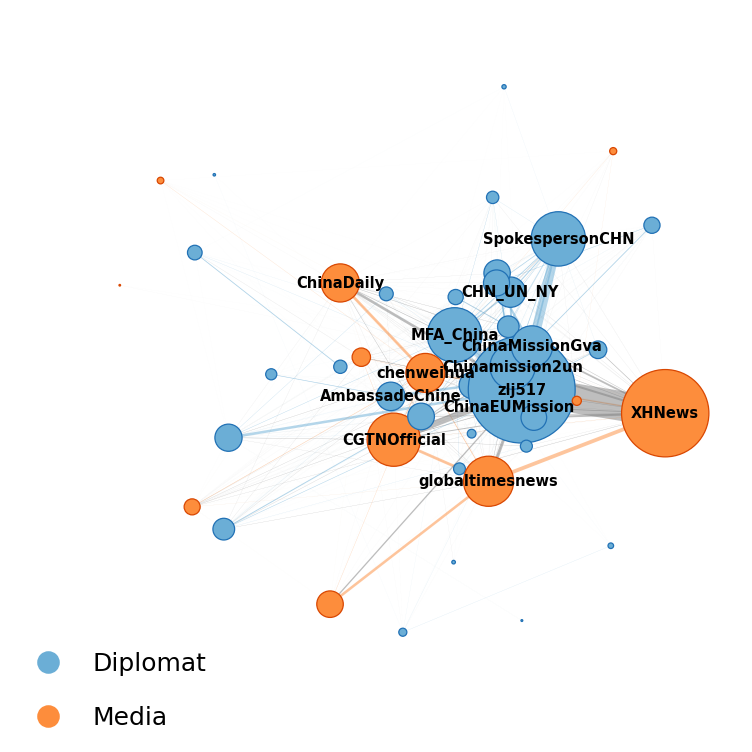
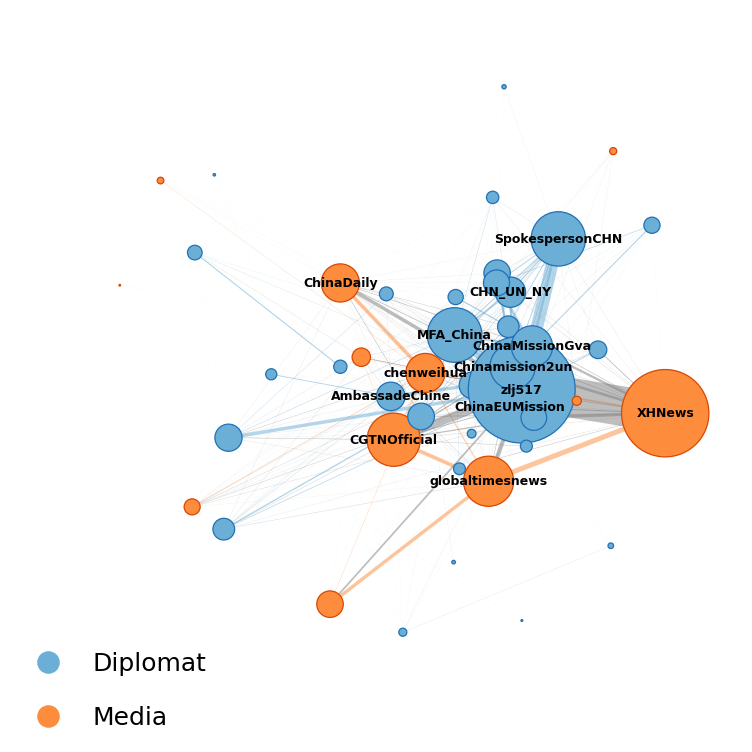
more tweaks

diff --git a/networks/src/network_main.py b/networks/src/network_main.py
@@ -123,7 +123,7 @@ def plot_network(G, color_dct, node_color, nodeedge_color, edge_color, labeldict
 
     # labels 
     label_options = {"edgecolor": "none", "facecolor": "white", "alpha": 0}
-    nx.draw_networkx_labels(G,pos,labels=labeldict,font_size=3.5, bbox=label_options, font_weight = 'bold')
+    nx.draw_networkx_labels(G,pos,labels=labeldict,font_size=3, bbox=label_options, font_weight = 'bold')
 
     # formatting & save
     lines, labels = get_legend(node_size, color_dct)
@@ -206,8 +206,8 @@ def main(n_labels, infile, outfolder):
 
     ''' mentions '''
     print('--> generating mentions plot')
-    node_divisor = 600*8
-    edge_divisor = 100*8
+    node_divisor = 600*12
+    edge_divisor = 100*6
     title = 'Diplomats and Media sub-network (nodesize: total number of mentions)'
     filename = 'network_focus_mentions'
     nudge_triple = [
@@ -237,7 +237,7 @@ def main(n_labels, infile, outfolder):
     ## unweighted degree
     print('--> generating unweighted degree plot')
     node_divisor = 0.05*8
-    edge_divisor = 100*8
+    edge_divisor = 100*6
     title = 'Diplomats and Media sub-network (nodesize: number of neighbors)'
     filename = 'network_focus_unweighted_degree'
 
@@ -262,7 +262,7 @@ def main(n_labels, infile, outfolder):
     ## weighted degree 
     print('--> generating weighted degree plot')
     node_divisor = 2.5*8
-    edge_divisor = 100*8
+    edge_divisor = 100*6
     title = 'Diplomats and Media sub-network (nodesize: number of neighbors weighted)'
     filename = 'network_focus_weighted_degree'
 
@@ -287,7 +287,7 @@ def main(n_labels, infile, outfolder):
     ''' in-degree '''
     print('--> generating in-degree plot')
     node_divisor = 1.5*8
-    edge_divisor = 100*8
+    edge_divisor = 100*6
     title = 'Diplomats and Media sub-network (nodesize: in-degree -- inwards)'
     filename = 'network_focus_in_degree'
 
@@ -312,7 +312,7 @@ def main(n_labels, infile, outfolder):
     ## out-degree
     print('--> generating out-degree plot')
     node_divisor = 1.5*8
-    edge_divisor = 100*8
+    edge_divisor = 100*6
     title = 'Diplomats and Media sub-network (nodesize: out-degree -- outwards)'
     filename = 'network_focus_out_degree'
 
